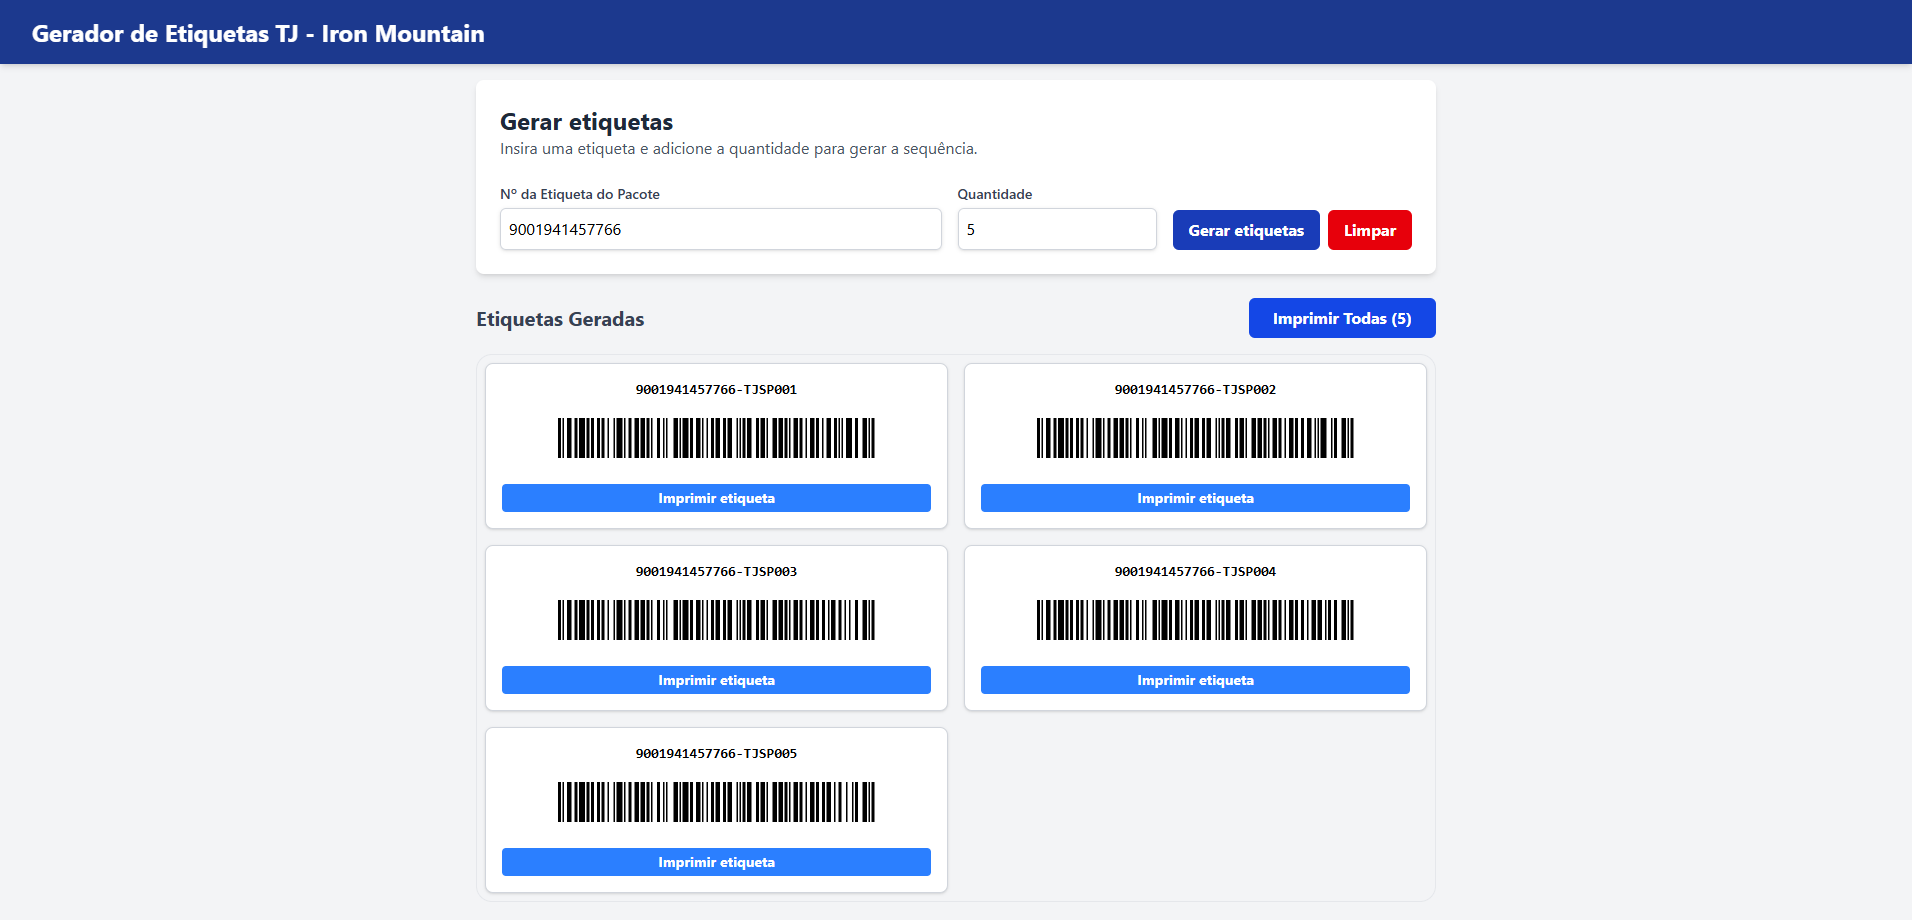
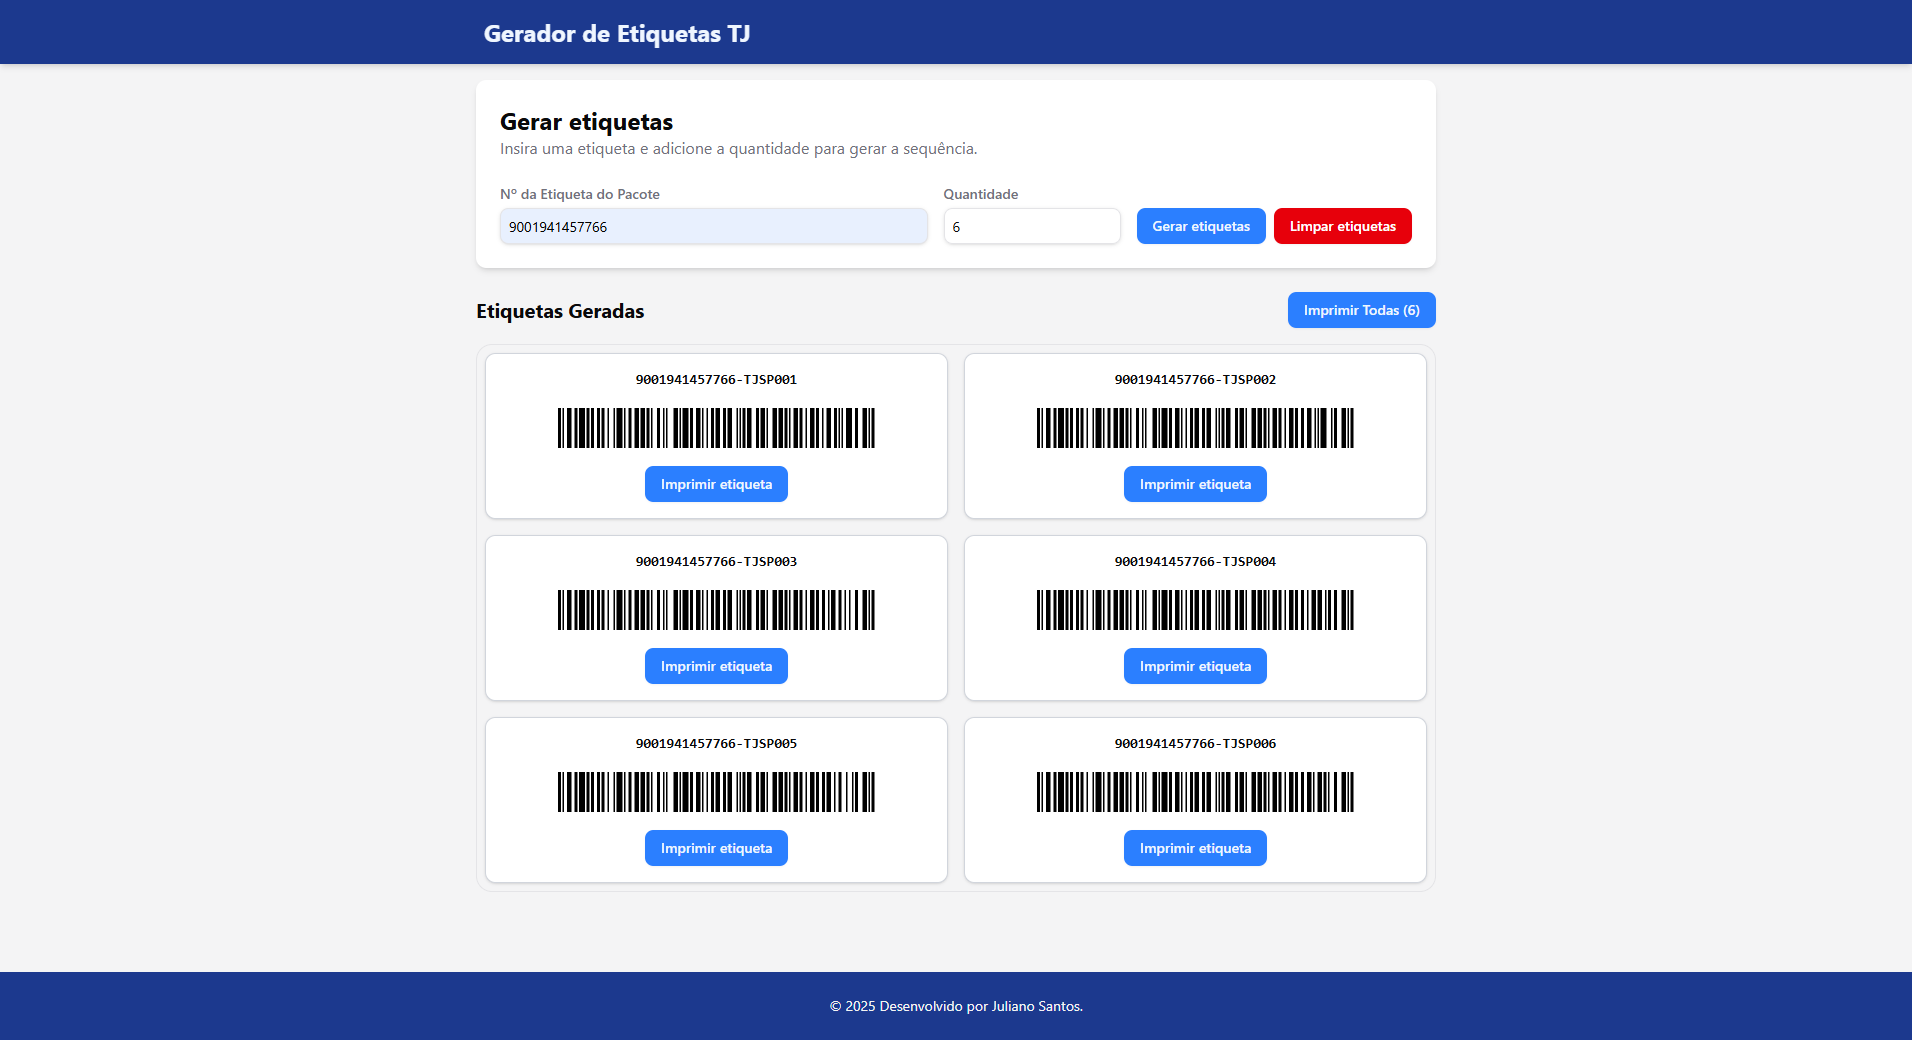
docs: alteração no readme.md

Changed region(s): [[0.0, 0.0, 1.0, 1.0]]

diff --git a/src/components/global/footer.tsx b/src/components/global/footer.tsx
@@ -12,7 +12,7 @@ const Footer: React.FC<FooterProps> = () => {
     <footer className="bg-blue-900 text-primary-foreground py-6 mt-auto">
       <div className="container mx-auto text-center">
         <p className="text-sm text-muted">
-          &copy; {currentYear} Desenvolvido por Juliano Santos.
+          &copy; {currentYear} Desenvolvido por <a className='hover:text-primary-foreground hover:underline transition-all duration-300' target='_blank' href="https://github.com/DosSantosDev2022">Juliano Santos.</a>
         </p>
       </div>
     </footer>

diff --git a/README.md b/README.md
@@ -75,8 +75,3 @@ Siga os passos abaixo para executar o projeto em seu ambiente local.
 4.  **Caixa de Diálogo de Impressão:** Ao imprimir, a caixa de diálogo do seu navegador será aberta. **Selecione a sua impressora Zebra** (ou outra compatível com ZPL) como destino. O driver da impressora interpretará o texto enviado como comandos ZPL.
 5.  **Limpar:** Use o botão "Limpar" para resetar os campos e a lista de etiquetas geradas.
 
----
-
-## 📄 Licença
-
-Este projeto está sob a licença MIT.
